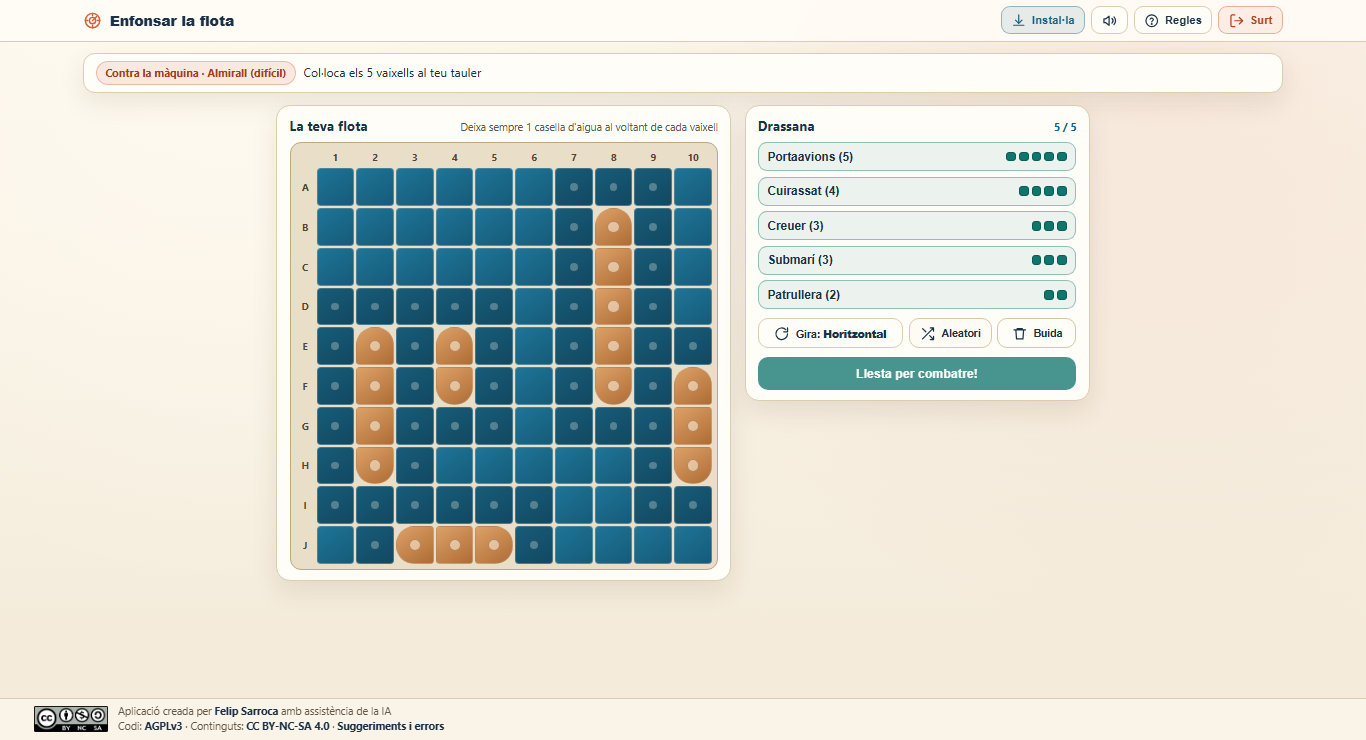
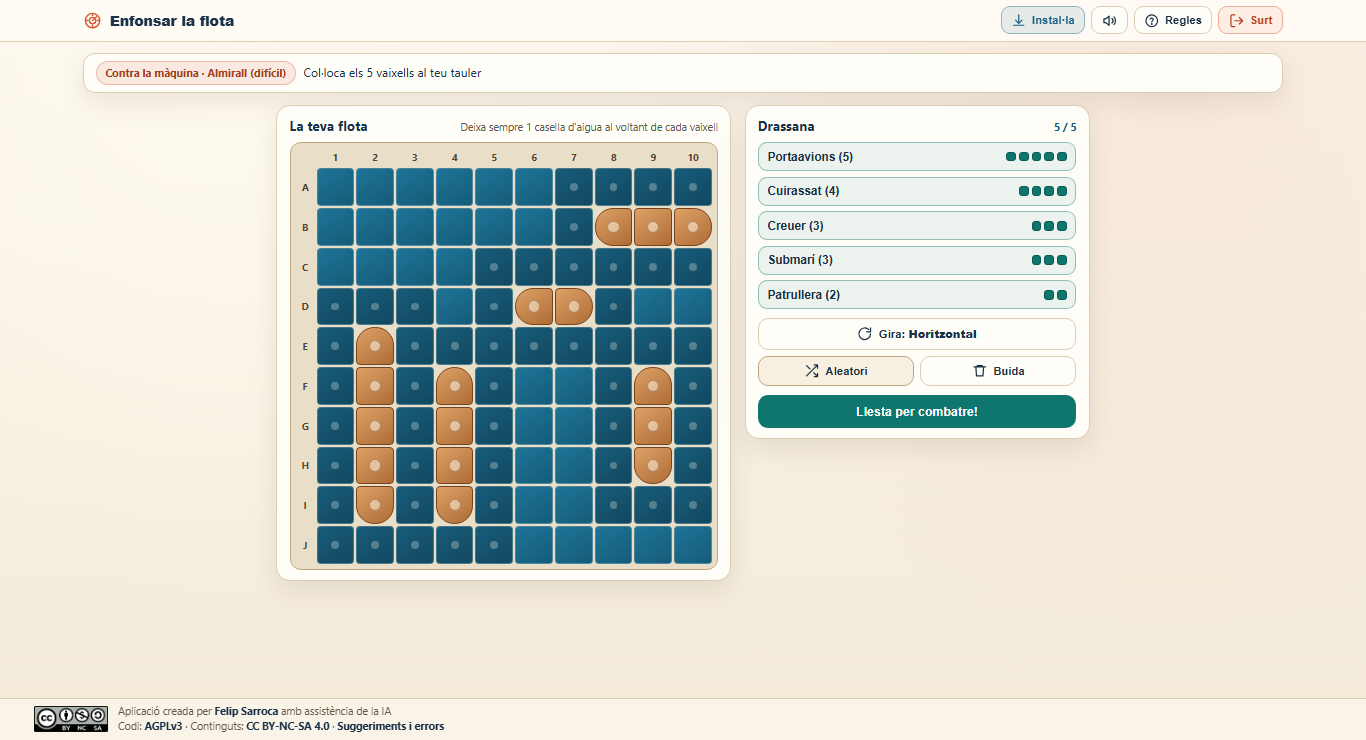
Ajusta els botons de la drassana en dues files perquè no sobresurtin

Changed region(s): [[0.2152, 0.2176, 0.7994, 0.777]]

diff --git a/Flota/css/estil.css b/Flota/css/estil.css
@@ -577,7 +577,7 @@ body {
 /* Disseny de col·locació */
 .place-layout {
   display: grid;
-  grid-template-columns: auto minmax(260px, 345px);
+  grid-template-columns: auto minmax(280px, 345px);
   justify-content: center;
   align-items: start;
   gap: 1rem;
@@ -860,14 +860,19 @@ body {
 
 .dock-tools {
   display: grid;
-  grid-template-columns: 1.75fr 1fr 0.95fr;
-  gap: 0.42rem;
+  grid-template-columns: repeat(2, minmax(0, 1fr));
+  gap: 0.45rem;
   margin-top: 0.65rem;
 }
 
+.dock-tools #btn-rotate {
+  grid-column: 1 / -1;
+}
+
 .dock-tools .btn {
-  padding: 0.48rem 0.5rem;
-  font-size: 0.78rem;
+  min-width: 0;
+  padding: 0.5rem 0.65rem;
+  font-size: 0.84rem;
   white-space: nowrap;
 }
 

diff --git a/Flota/index.html b/Flota/index.html
@@ -13,8 +13,8 @@
   <link rel="manifest" href="manifest.webmanifest">
   <link rel="icon" href="assets/favicon.svg" type="image/svg+xml">
   <link rel="apple-touch-icon" href="assets/apple-touch-icon.png">
-  <link rel="stylesheet" href="css/estil.css?v=1.1.0">
-  <script type="module" src="js/app.js?v=1.1.0"></script>
+  <link rel="stylesheet" href="css/estil.css?v=1.1.1">
+  <script type="module" src="js/app.js?v=1.1.1"></script>
 </head>
 <body>
   <header class="topbar">

diff --git a/Flota/sw.js b/Flota/sw.js
@@ -1,7 +1,7 @@
 /* SPDX-License-Identifier: AGPL-3.0-or-later */
 /* Service Worker per a ús fora de línia i instal·lació PWA d'Enfonsar la flota */
 
-const CACHE_NAME = 'enfonsar-la-flota-v1.1.0';
+const CACHE_NAME = 'enfonsar-la-flota-v1.1.1';
 const APP_SHELL = [
   './',
   './index.html',
